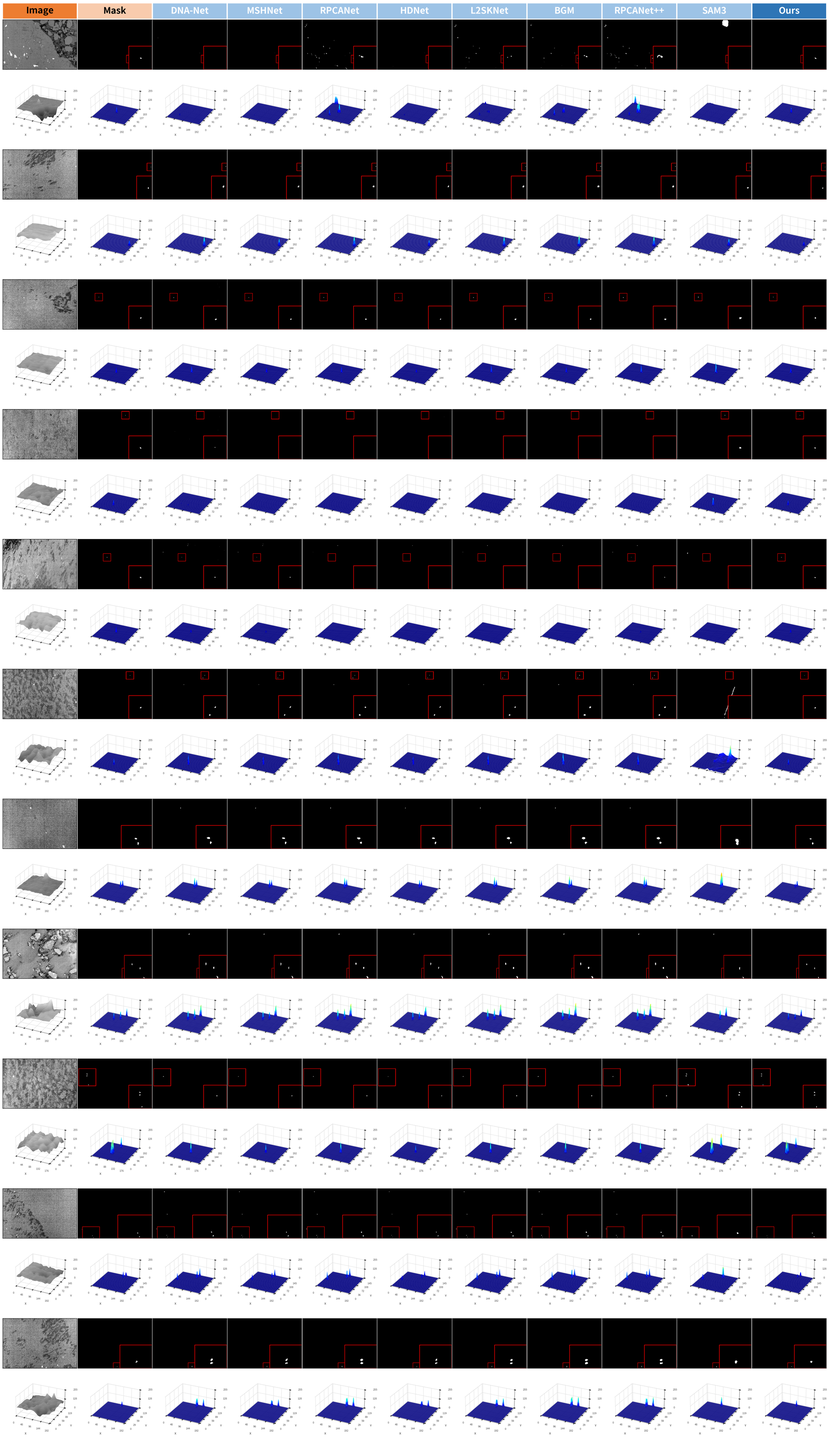
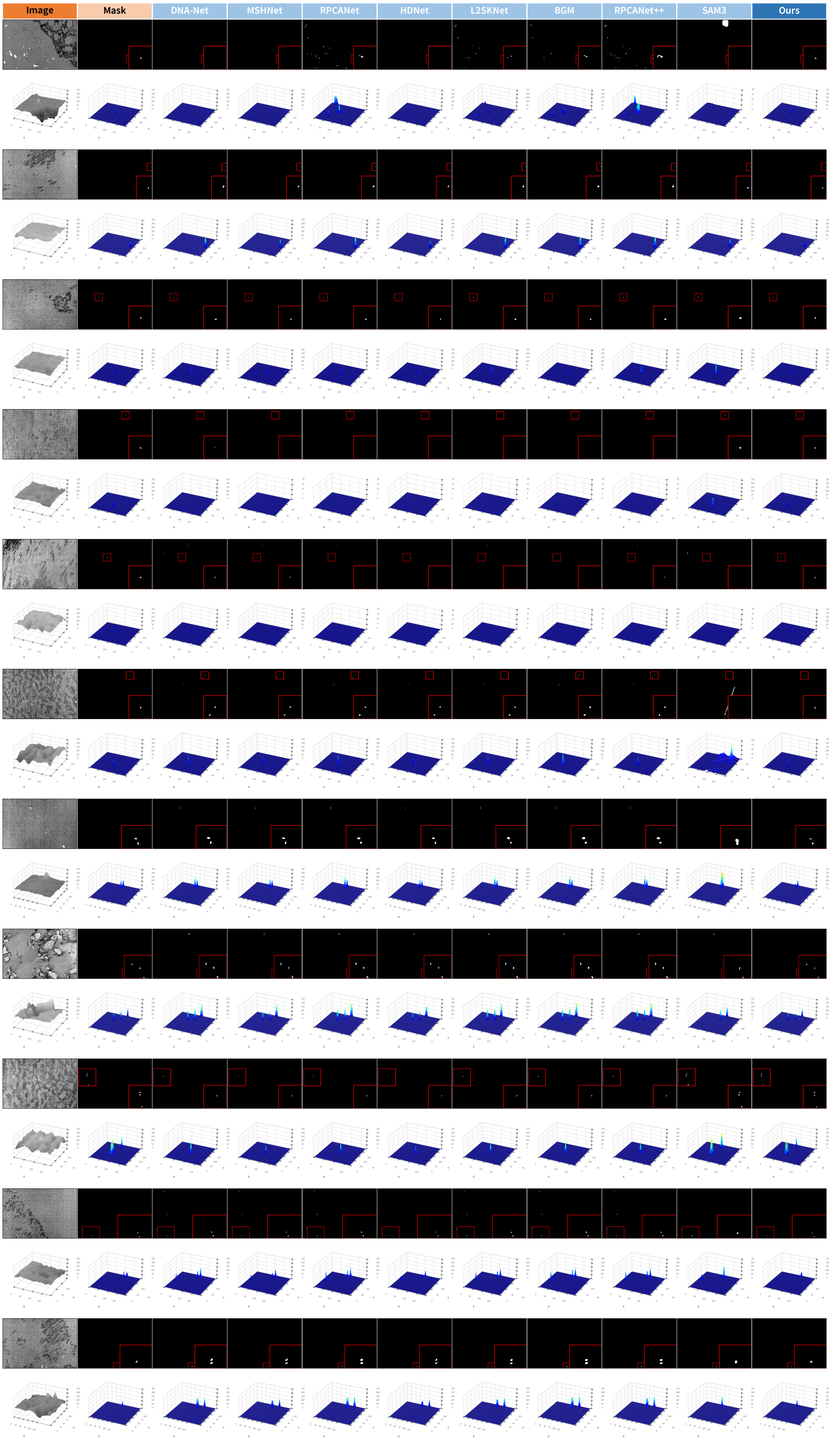
定性图 v3：3D 再放大、单图拆分、Visio 可编辑版
- 3D：刻度 2.1 -> 1.8 pt、zoom 0.78 -> 0.85（盒子占格宽约 75%）；tick 0.45 灰/0.15 pt、轴线 0.55 灰/0.22 pt
- build_paper_qualitative.py 新增 --split-dir：每个 2D 面板、每个 3D 盒子各存一张单图
  （panels_roi/<nn>_<id>/2d|3d/<col>.png；3D 按 1.6x1.344 in @600dpi 渲染，与拼图格子 1:1）
- 新增 Visio 可编辑版 seal_qualitative_11col.vsdx（11 页 x 34 形状，表头/图片/页脚均可单独编辑）
- 本地只留 v3，整个 Ours/qualitative/ 移出 git（单版约 100 MB，含 242 张单图与 vsdx）
- docs 记录 v1/v2/v3 差异、单图命名与 Visio 生成方式

diff --git a/tools/build_paper_qualitative.py b/tools/build_paper_qualitative.py
@@ -135,7 +135,27 @@ def roi_panel(sheet, roi, target=384):
     return cv2.cvtColor(canvas, cv2.COLOR_GRAY2BGR)
 
 
-def add_surface(ax, data, vmax=255.0, smooth=2.0, cmap='jet', tick_font=2.1):
+def safe_name(name):
+    return name.replace('+', 'p').replace('/', '_').replace(' ', '_')
+
+
+def render_surface_png(surf, path, vmax, cmap='jet', smooth=2.0,
+                       size_in=(1.6, 1.344), dpi=600):
+    """One 3D box as a standalone PNG, rendered at the size it will be placed in Visio.
+
+    1.6 x 1.344 in matches one cell of the composite figure (cell_w x 0.84*cell_w),
+    so the tick labels keep the same visual size when pasted back at 1:1.
+    """
+    path.parent.mkdir(parents=True, exist_ok=True)
+    f = plt.figure(figsize=size_in, dpi=dpi, facecolor='white')
+    ax = f.add_subplot(111, projection='3d')
+    add_surface(ax, surf, vmax=vmax, cmap=cmap, smooth=smooth)
+    f.subplots_adjust(left=0.0, right=1.0, bottom=0.0, top=1.0)
+    f.savefig(path, dpi=dpi, facecolor='white')
+    plt.close(f)
+
+
+def add_surface(ax, data, vmax=255.0, smooth=2.0, cmap='jet', tick_font=1.8):
     """PDDiff Fig. 9 style surface: white panes, light grid, thin grey axes, tick labels."""
     arr = data.astype(np.float32)
     if smooth > 0:
@@ -154,12 +174,12 @@ def add_surface(ax, data, vmax=255.0, smooth=2.0, cmap='jet', tick_font=2.1):
     ax.xaxis.set_major_locator(loc)
     ax.yaxis.set_major_locator(loc)
     ax.zaxis.set_major_locator(MaxNLocator(nbins=5, integer=True, steps=[1, 2, 2.5, 5, 10]))
-    ax.tick_params(axis='x', labelsize=tick_font, pad=-3.0, length=0.5, width=0.2,
-                   colors='0.25')
-    ax.tick_params(axis='y', labelsize=tick_font, pad=-3.0, length=0.5, width=0.2,
-                   colors='0.25')
-    ax.tick_params(axis='z', labelsize=tick_font, pad=-1.5, length=0.5, width=0.2,
-                   colors='0.25')
+    ax.tick_params(axis='x', labelsize=tick_font, pad=-3.0, length=0.4, width=0.15,
+                   colors='0.45')
+    ax.tick_params(axis='y', labelsize=tick_font, pad=-3.0, length=0.4, width=0.15,
+                   colors='0.45')
+    ax.tick_params(axis='z', labelsize=tick_font, pad=-1.5, length=0.4, width=0.15,
+                   colors='0.45')
     ax.set_xlabel('X', fontsize=tick_font + 0.3, labelpad=-9, color='0.15')
     ax.set_ylabel('Y', fontsize=tick_font + 0.3, labelpad=-9, color='0.15')
     ax.set_zlabel('Z', fontsize=tick_font + 0.3, labelpad=-4, color='0.15')
@@ -170,11 +190,11 @@ def add_surface(ax, data, vmax=255.0, smooth=2.0, cmap='jet', tick_font=2.1):
         axis.pane.set_linewidth(0.3)
         axis._axinfo['grid'].update(color=(0.86, 0.86, 0.86, 1), linewidth=0.22)
         # 去掉 matplotlib 默认的黑色粗轴线，改成很细的灰线（PDDiff 没有黑粗线）
-        axis.line.set_color((0.45, 0.45, 0.45, 1))
-        axis.line.set_linewidth(0.25)
+        axis.line.set_color((0.55, 0.55, 0.55, 1))
+        axis.line.set_linewidth(0.22)
 
     ax.grid(True)
-    ax.set_box_aspect((1, 1, 0.55), zoom=0.78)
+    ax.set_box_aspect((1, 1, 0.55), zoom=0.85)
     ax.margins(0)
 
 
@@ -193,6 +213,9 @@ def main():
     ap.add_argument('--image-stretch', default='percentile', choices=['none', 'percentile'],
                     help='display-only background stretch for the Image column')
     ap.add_argument('--crop3d', type=int, default=192)
+    ap.add_argument('--split-dir', default=None,
+                    help='also write every panel as its own PNG under '
+                         '<dir>/<nn>_<id>/2d/<col>.png and .../3d/<col>.png')
     ap.add_argument('--roi-min', type=int, default=MIN_BOX, help='minimum ROI side (px)')
     ap.add_argument('--roi-margin', type=int, default=MARGIN, help='padding around the GT bbox (px)')
     ap.add_argument('--roi-panels', action='store_true',
@@ -210,6 +233,9 @@ def main():
 
     out = Path(args.out)
     out.mkdir(parents=True, exist_ok=True)
+    split_root = Path(args.split_dir) if args.split_dir else None
+    if split_root is not None:
+        split_root.mkdir(parents=True, exist_ok=True)
 
     if args.font:
         plt.rcParams['font.family'] = 'sans-serif'
@@ -324,6 +350,16 @@ def main():
             cmap = 'gray' if columns[j][2] == 'image' else 'jet'
             smooth = 5.0 if columns[j][2] == 'image' else 2.0
             add_surface(ax, surf, vmax=vmax, cmap=cmap, smooth=smooth)
+            if split_root is not None:
+                render_surface_png(surf, split_root / f'{si + 1:02d}_{stem}' / '3d' /
+                                   f'{j:02d}_{safe_name(columns[j][0])}.png',
+                                   vmax=vmax, cmap=cmap, smooth=smooth)
+
+        if split_root is not None:
+            sdir = split_root / f'{si + 1:02d}_{stem}' / '2d'
+            sdir.mkdir(parents=True, exist_ok=True)
+            for j, panel in enumerate(panels):
+                cv2.imwrite(str(sdir / f'{j:02d}_{safe_name(columns[j][0])}.png'), panel)
 
     png = out / f'{args.tag}_qualitative.png'
     pdf = out / f'{args.tag}_qualitative.pdf'
@@ -340,6 +376,7 @@ def main():
         'surf_maps': {k: str(v) for k, v in surf_dirs.items()},
         'roi_margin_px': args.roi_margin, 'min_roi_px': args.roi_min, 'inset_zoom': ZOOM,
         'roi_panels': bool(args.roi_panels),
+        'split_dir': str(split_root) if split_root is not None else None,
         'header_colors': HEADER_COLORS,
     }
     (out / f'{args.tag}_meta.json').write_text(json.dumps(meta, ensure_ascii=False, indent=2), encoding='utf-8')

diff --git a/AGENTS.md b/AGENTS.md
@@ -62,7 +62,7 @@
 - DRPCA-Net 的 11.23 FPS 是实现开销而非测量噪声：`torch.profiler` 显示单次前向 CUDA 时间的 81.8 % 花在 `ChannelAttention` 的 `nn.AdaptiveMaxPool2d(1)`（每前向 29 次调用），且延迟对 batch 1/2/4 不敏感（85/56/65 ms）。按官方代码如实记录，不改实现。口径、对照表与差异分析见 [Seal 复杂度指标说明](docs/Seal复杂度指标_说明.md)。
 - 平凡基线（决定读表方式，不新增表行）：全背景预测（1,983 张全零）在同一 test GT 上为 S 0.49990、Fw 0、E 0.25、MAE 0.00020553，IoU/F1/Pd/Fa 均为 0。12 个基线与 Ours 的 S（0.49800–0.49915）全部低于该值，12 个基线的 MAE（0.000229–0.000375）全部高于该值，只有 Ours 的 MAE（0.00015090）低于它。因此 S/MAE 在 Seal 上不区分方法，比较以 Fw/IoU/F1/Pd/Fa 为主，S/MAE 须与平凡基线并列阅读；复算见 [汇总](docs/Seal全监督基线评估汇总.md#平凡基线全背景预测)。
 - 第三批（入表，行 29～32）：L2SKNet（TGRS25）、BGM（TGRS25）、DRPCA-Net（TGRS25）、DURD（TGRS26），均为 2025–2026 年、有官方代码的全监督单帧方法，12 个对比方法到此凑满。目录 `L2SKNet-main/`、`BGM-main/`、`DRPCA-Net-main/`、`DURD-main/`；训练设置：L2SKNet 150/Adam 5e-4、BGM 150/Adam 5e-4（两者模型输出已是概率，用概率空间 dataset 级 IoU）、DRPCA-Net 60/Adam 3e-5/dataset 级 SoftIoU + 0.01 MSE、DURD 100/Adam 1e-4/SoftIoU + 0.1 MSE。各处改动逐条写在对应实验记录与 [汇总](docs/Seal全监督基线评估汇总.md#训练不稳定与失败记录)。
-- 论文版式定性图（对齐 PDDiff Fig. 8/9）：[tools/build_paper_qualitative.py](tools/build_paper_qualitative.py)，每个样例两行（2D 二值面板 + 红框/放大插图；3D 响应面 `elev=26, azim=-64`、按面板 z 上限）。三条硬约束：① 3D 行必须喂**概率图**（`--surf-maps results/<M>/Seal/fullsup_test_maps`），二值图是 0/255 阶跃，画出来只有一根尖刺；② Seal 目标只有 3–5 px，`full` 版式（整幅 + 右下插图）在 0.87 in 列宽下几乎看不见，正式图用 `--roi-panels`（面板 = 6 倍放大 ROI，`--roi-min 64 --roi-margin 24`）；③ 11 列 × 11 样例按 9.6 in 出图，若按 7.2 in 排版表头掉到 5.6 pt，主图应拆成 `seal_pick6_roi` + `seal_pick5_roi` 两张。样例取 [docs/qualitative_rank_top200.json](docs/qualitative_rank_top200.json)（`score = F1(Ours) − mean_k F1(baseline_k)`，可用 [docs/qualitative_review_top200.html](docs/qualitative_review_top200.html) 逐图复核），当前采用排名 1,2,5,6,8,11,13,15,19,21,29 共 11 张，一键重建 [tools/make_paper_qualitative_pick.sh](tools/make_paper_qualitative_pick.sh)。Ours 预测在 `Ours/test_maps`（1,983 张概率图）、SAM3 在 `Ours/SAM3-test_maps`（同阈值 `>=128`）。版式规格、样例清单与读数见 [docs/Seal定性图_论文版式.md](docs/Seal定性图_论文版式.md)，预览 `docs/assets/seal_qualitative_pick6_roi.png`、`docs/assets/seal_qualitative_pick11_full.png`。全分辨率成品（600 dpi PNG + 矢量 PDF + meta，6 个 tag 共 18 个文件，约 80 MB/版）按版本归档：服务器保留全部历史（v1 `qualitative_paper/user_pick/`、v2 `qualitative_paper/v2_20261105/`），本地只留最新一版在 `Ours/qualitative/v2_20261105/`，**每一版单独一个 `v*` 子文件夹**。PNG/PDF 体积大，已在 `.gitignore` 里排除（不进 git），每版目录内的 `README.md` 仍跟踪。v2 相对 v1 的版式改动：列间距压到 `wspace=0.004`、2D 行高度按图像真实比例（ROI 版正方形）、3D 加浅灰网格 + 整数刻度 + X/Y/Z 轴名（`MaxNLocator(nbins=5, integer=True)`）、轴线压到 0.25 pt 灰线去掉黑色粗框、3D 盒子 `zoom=0.78` 让刻度落在本格内。
+- 论文版式定性图（对齐 PDDiff Fig. 8/9）：[tools/build_paper_qualitative.py](tools/build_paper_qualitative.py)，每个样例两行（2D 二值面板 + 红框/放大插图；3D 响应面 `elev=26, azim=-64`、按面板 z 上限）。三条硬约束：① 3D 行必须喂**概率图**（`--surf-maps results/<M>/Seal/fullsup_test_maps`），二值图是 0/255 阶跃，画出来只有一根尖刺；② Seal 目标只有 3–5 px，`full` 版式（整幅 + 右下插图）在 0.87 in 列宽下几乎看不见，正式图用 `--roi-panels`（面板 = 6 倍放大 ROI，`--roi-min 64 --roi-margin 24`）；③ 11 列 × 11 样例按 9.6 in 出图，若按 7.2 in 排版表头掉到 5.6 pt，主图应拆成 `seal_pick6_roi` + `seal_pick5_roi` 两张。样例取 [docs/qualitative_rank_top200.json](docs/qualitative_rank_top200.json)（`score = F1(Ours) − mean_k F1(baseline_k)`，可用 [docs/qualitative_review_top200.html](docs/qualitative_review_top200.html) 逐图复核），当前采用排名 1,2,5,6,8,11,13,15,19,21,29 共 11 张，一键重建 [tools/make_paper_qualitative_pick.sh](tools/make_paper_qualitative_pick.sh)。Ours 预测在 `Ours/test_maps`（1,983 张概率图）、SAM3 在 `Ours/SAM3-test_maps`（同阈值 `>=128`）。版式规格、样例清单与读数见 [docs/Seal定性图_论文版式.md](docs/Seal定性图_论文版式.md)，预览 `docs/assets/seal_qualitative_pick6_roi.png`、`docs/assets/seal_qualitative_pick11_full.png`。全分辨率成品（600 dpi PNG + 矢量 PDF + meta，约 100 MB/版）按版本归档：服务器保留全部历史（v1 `qualitative_paper/user_pick/`、v2 `qualitative_paper/v2_20261105/`、v3 `qualitative_paper/v3_20261105/`），本地只留最新一版在 `Ours/qualitative/v3_20261105/`；**整个 `Ours/qualitative/` 不进 git**（单版 100 MB 量级，`.gitignore` 整目录排除，只有 `docs/assets/` 里的 1800 px 预览入库）。版式演进：v2 压紧列间距、3D 加网格 + 整数刻度 + 轴名、去掉黑色粗轴线；v3 再把 3D 刻度降到 1.8 pt、盒子 `zoom=0.85`，并用 `--split-dir` 把每个 2D 面板 / 3D 盒子拆成单图（`panels_roi/<nn>_<id>/2d|3d/<col>.png`，3D 按 1.6×1.344 in @600 dpi 渲染，与拼图格子 1:1），另外用 Visio COM（`tmp/fullsup3/make_visio.ps1`，仅 Windows + 已装 Visio）生成 `seal_qualitative_11col.vsdx`：11 页、每样例一页、每页 34 个独立形状（表头矩形 + 22 张图片 + 页脚说明），可手动调整格式。
 - 定性图（论文拼图用）：12 个方法与 Ours 的二值预测图在 `results/<Method>/Seal/test_binary/`（1,983 张，`pixel >= 128` → 255），由 [tools/make_binary_maps.py](tools/make_binary_maps.py) 与 [tools/make_qualitative.sh](tools/make_qualitative.sh) 生成；样例拼图在服务器 `qualitative/<stem>/panel.png`（RGB/热红外/GT/预测叠加，13 行），样例清单 `docs/Seal定性对比样例.json`，说明见 [docs/Seal定性对比图.md](docs/Seal定性对比图.md)。
 - IoU 的边界敏感性：Seal 目标平均 14.3 像素，把 GT 膨胀/腐蚀 1 像素当预测只能得到 IoU 0.3910 / 0.0826；表中 IoU 0.19–0.31 对应约 1–2 像素边界误差，不能读作分割质量百分比，须与 Fw/F1/Pd/Fa 合看，详见 [定义对照](docs/小目标评价指标_定义与代码对照.md#iou-的边界敏感性seal-gt-实测)。
 - 实验记录：[ACM](docs/ACM_Seal实验记录.md)、[DNA-Net](docs/DNANet_Seal实验记录.md)、[MSHNet](docs/MSHNet_Seal实验记录.md)、[UIU-Net](docs/UIU-Net_Seal实验记录.md)、[SCTransNet](docs/SCTransNet_Seal实验记录.md)、[RPCANet](docs/RPCANet_Seal实验记录.md)、[HDNet](docs/HDNet_Seal实验记录.md)、[ILNet](docs/ILNet_Seal实验记录.md)、[RPCANet++](docs/RPCANet++_Seal实验记录.md)、[L2SKNet](docs/L2SKNet_Seal实验记录.md)、[BGM](docs/BGM_Seal实验记录.md)、[DRPCA-Net](docs/DRPCA-Net_Seal实验记录.md)、[DURD](docs/DURD_Seal实验记录.md)、[DHiF](docs/DHiF_Seal实验记录.md)，汇总见 [Seal全监督基线评估汇总](docs/Seal全监督基线评估汇总.md)，定性图见 [Seal定性对比图](docs/Seal定性对比图.md)。

diff --git a/README.md b/README.md
@@ -65,7 +65,7 @@
 - DRPCA-Net 的 11.23 FPS 是实现开销而非测量噪声：`torch.profiler` 显示单次前向 CUDA 时间的 81.8 % 花在 `ChannelAttention` 的 `nn.AdaptiveMaxPool2d(1)`（每前向 29 次调用），且延迟对 batch 1/2/4 不敏感（85/56/65 ms）。按官方代码如实记录，不改实现。口径、对照表与差异分析见 [Seal 复杂度指标说明](docs/Seal复杂度指标_说明.md)。
 - 平凡基线（决定读表方式，不新增表行）：全背景预测（1,983 张全零）在同一 test GT 上为 S 0.49990、Fw 0、E 0.25、MAE 0.00020553，IoU/F1/Pd/Fa 均为 0。12 个基线与 Ours 的 S（0.49800–0.49915）全部低于该值，12 个基线的 MAE（0.000229–0.000375）全部高于该值，只有 Ours 的 MAE（0.00015090）低于它。因此 S/MAE 在 Seal 上不区分方法，比较以 Fw/IoU/F1/Pd/Fa 为主，S/MAE 须与平凡基线并列阅读；复算见 [汇总](docs/Seal全监督基线评估汇总.md#平凡基线全背景预测)。
 - 第三批（入表，行 29～32）：L2SKNet（TGRS25）、BGM（TGRS25）、DRPCA-Net（TGRS25）、DURD（TGRS26），均为 2025–2026 年、有官方代码的全监督单帧方法，12 个对比方法到此凑满。目录 `L2SKNet-main/`、`BGM-main/`、`DRPCA-Net-main/`、`DURD-main/`；训练设置：L2SKNet 150/Adam 5e-4、BGM 150/Adam 5e-4（两者模型输出已是概率，用概率空间 dataset 级 IoU）、DRPCA-Net 60/Adam 3e-5/dataset 级 SoftIoU + 0.01 MSE、DURD 100/Adam 1e-4/SoftIoU + 0.1 MSE。各处改动逐条写在对应实验记录与 [汇总](docs/Seal全监督基线评估汇总.md#训练不稳定与失败记录)。
-- 论文版式定性图（对齐 PDDiff Fig. 8/9）：[tools/build_paper_qualitative.py](tools/build_paper_qualitative.py)，每个样例两行（2D 二值面板 + 红框/放大插图；3D 响应面 `elev=26, azim=-64`、按面板 z 上限）。三条硬约束：① 3D 行必须喂**概率图**（`--surf-maps results/<M>/Seal/fullsup_test_maps`），二值图是 0/255 阶跃，画出来只有一根尖刺；② Seal 目标只有 3–5 px，`full` 版式（整幅 + 右下插图）在 0.87 in 列宽下几乎看不见，正式图用 `--roi-panels`（面板 = 6 倍放大 ROI，`--roi-min 64 --roi-margin 24`）；③ 11 列 × 11 样例按 9.6 in 出图，若按 7.2 in 排版表头掉到 5.6 pt，主图应拆成 `seal_pick6_roi` + `seal_pick5_roi` 两张。样例取 [docs/qualitative_rank_top200.json](docs/qualitative_rank_top200.json)（`score = F1(Ours) − mean_k F1(baseline_k)`，可用 [docs/qualitative_review_top200.html](docs/qualitative_review_top200.html) 逐图复核），当前采用排名 1,2,5,6,8,11,13,15,19,21,29 共 11 张，一键重建 [tools/make_paper_qualitative_pick.sh](tools/make_paper_qualitative_pick.sh)。Ours 预测在 `Ours/test_maps`（1,983 张概率图）、SAM3 在 `Ours/SAM3-test_maps`（同阈值 `>=128`）。版式规格、样例清单与读数见 [docs/Seal定性图_论文版式.md](docs/Seal定性图_论文版式.md)，预览 `docs/assets/seal_qualitative_pick6_roi.png`、`docs/assets/seal_qualitative_pick11_full.png`。全分辨率成品（600 dpi PNG + 矢量 PDF + meta，6 个 tag 共 18 个文件，约 80 MB/版）按版本归档：服务器保留全部历史（v1 `qualitative_paper/user_pick/`、v2 `qualitative_paper/v2_20261105/`），本地只留最新一版在 `Ours/qualitative/v2_20261105/`，**每一版单独一个 `v*` 子文件夹**。PNG/PDF 体积大，已在 `.gitignore` 里排除（不进 git），每版目录内的 `README.md` 仍跟踪。v2 相对 v1 的版式改动：列间距压到 `wspace=0.004`、2D 行高度按图像真实比例（ROI 版正方形）、3D 加浅灰网格 + 整数刻度 + X/Y/Z 轴名（`MaxNLocator(nbins=5, integer=True)`）、轴线压到 0.25 pt 灰线去掉黑色粗框、3D 盒子 `zoom=0.78` 让刻度落在本格内。
+- 论文版式定性图（对齐 PDDiff Fig. 8/9）：[tools/build_paper_qualitative.py](tools/build_paper_qualitative.py)，每个样例两行（2D 二值面板 + 红框/放大插图；3D 响应面 `elev=26, azim=-64`、按面板 z 上限）。三条硬约束：① 3D 行必须喂**概率图**（`--surf-maps results/<M>/Seal/fullsup_test_maps`），二值图是 0/255 阶跃，画出来只有一根尖刺；② Seal 目标只有 3–5 px，`full` 版式（整幅 + 右下插图）在 0.87 in 列宽下几乎看不见，正式图用 `--roi-panels`（面板 = 6 倍放大 ROI，`--roi-min 64 --roi-margin 24`）；③ 11 列 × 11 样例按 9.6 in 出图，若按 7.2 in 排版表头掉到 5.6 pt，主图应拆成 `seal_pick6_roi` + `seal_pick5_roi` 两张。样例取 [docs/qualitative_rank_top200.json](docs/qualitative_rank_top200.json)（`score = F1(Ours) − mean_k F1(baseline_k)`，可用 [docs/qualitative_review_top200.html](docs/qualitative_review_top200.html) 逐图复核），当前采用排名 1,2,5,6,8,11,13,15,19,21,29 共 11 张，一键重建 [tools/make_paper_qualitative_pick.sh](tools/make_paper_qualitative_pick.sh)。Ours 预测在 `Ours/test_maps`（1,983 张概率图）、SAM3 在 `Ours/SAM3-test_maps`（同阈值 `>=128`）。版式规格、样例清单与读数见 [docs/Seal定性图_论文版式.md](docs/Seal定性图_论文版式.md)，预览 `docs/assets/seal_qualitative_pick6_roi.png`、`docs/assets/seal_qualitative_pick11_full.png`。全分辨率成品（600 dpi PNG + 矢量 PDF + meta，约 100 MB/版）按版本归档：服务器保留全部历史（v1 `qualitative_paper/user_pick/`、v2 `qualitative_paper/v2_20261105/`、v3 `qualitative_paper/v3_20261105/`），本地只留最新一版在 `Ours/qualitative/v3_20261105/`；**整个 `Ours/qualitative/` 不进 git**（单版 100 MB 量级，`.gitignore` 整目录排除，只有 `docs/assets/` 里的 1800 px 预览入库）。版式演进：v2 压紧列间距、3D 加网格 + 整数刻度 + 轴名、去掉黑色粗轴线；v3 再把 3D 刻度降到 1.8 pt、盒子 `zoom=0.85`，并用 `--split-dir` 把每个 2D 面板 / 3D 盒子拆成单图（`panels_roi/<nn>_<id>/2d|3d/<col>.png`，3D 按 1.6×1.344 in @600 dpi 渲染，与拼图格子 1:1），另外用 Visio COM（`tmp/fullsup3/make_visio.ps1`，仅 Windows + 已装 Visio）生成 `seal_qualitative_11col.vsdx`：11 页、每样例一页、每页 34 个独立形状（表头矩形 + 22 张图片 + 页脚说明），可手动调整格式。
 - 定性图（论文拼图用）：12 个方法与 Ours 的二值预测图在 `results/<Method>/Seal/test_binary/`（1,983 张，`pixel >= 128` → 255），由 [tools/make_binary_maps.py](tools/make_binary_maps.py) 与 [tools/make_qualitative.sh](tools/make_qualitative.sh) 生成；样例拼图在服务器 `qualitative/<stem>/panel.png`（RGB/热红外/GT/预测叠加，13 行），样例清单 `docs/Seal定性对比样例.json`，说明见 [docs/Seal定性对比图.md](docs/Seal定性对比图.md)。
 - IoU 的边界敏感性：Seal 目标平均 14.3 像素，把 GT 膨胀/腐蚀 1 像素当预测只能得到 IoU 0.3910 / 0.0826；表中 IoU 0.19–0.31 对应约 1–2 像素边界误差，不能读作分割质量百分比，须与 Fw/F1/Pd/Fa 合看，详见 [定义对照](docs/小目标评价指标_定义与代码对照.md#iou-的边界敏感性seal-gt-实测)。
 - 实验记录：[ACM](docs/ACM_Seal实验记录.md)、[DNA-Net](docs/DNANet_Seal实验记录.md)、[MSHNet](docs/MSHNet_Seal实验记录.md)、[UIU-Net](docs/UIU-Net_Seal实验记录.md)、[SCTransNet](docs/SCTransNet_Seal实验记录.md)、[RPCANet](docs/RPCANet_Seal实验记录.md)、[HDNet](docs/HDNet_Seal实验记录.md)、[ILNet](docs/ILNet_Seal实验记录.md)、[RPCANet++](docs/RPCANet++_Seal实验记录.md)、[L2SKNet](docs/L2SKNet_Seal实验记录.md)、[BGM](docs/BGM_Seal实验记录.md)、[DRPCA-Net](docs/DRPCA-Net_Seal实验记录.md)、[DURD](docs/DURD_Seal实验记录.md)、[DHiF](docs/DHiF_Seal实验记录.md)，汇总见 [Seal全监督基线评估汇总](docs/Seal全监督基线评估汇总.md)，定性图见 [Seal定性对比图](docs/Seal定性对比图.md)。

diff --git a/docs/Seal定性图_论文版式.md b/docs/Seal定性图_论文版式.md
@@ -112,18 +112,19 @@ python tools/build_paper_qualitative.py \
 
 （`2688/2120/2894` 是多目标或细长目标，视野被 `--roi-min 64` 自动放大到 98–138 px。）
 
-构建：`bash tools/make_paper_qualitative_pick.sh all qualitative_paper/v2_20261105`（第二个参数是输出目录，默认 `qualitative_paper/latest`；**每次改版都给新目录**，别覆盖旧版）。`full`/`roi` 二选一也行。
+构建：`bash tools/make_paper_qualitative_pick.sh all qualitative_paper/v3_20261105`（第二个参数是输出目录，默认 `qualitative_paper/latest`；**每次改版都给新目录**，别覆盖旧版）。`full`/`roi` 二选一也行。
 
 ### 版本
 
 | 版本 | 服务器目录 | 本地目录 | 说明 |
 |---|---|---|---|
 | v1 | `qualitative_paper/user_pick/` | 已删除 | 首版：3D 无刻度、有黑色粗轴线、列间距 0.02、Image 列 `gray+sigma3` |
-| v2（当前） | `qualitative_paper/v2_20261105/` | `Ours/qualitative/v2_20261105/` | 按审阅意见改：列间距压到 0.004、2D 行按真实比例、3D 加网格+整数刻度+轴名、去掉黑粗轴线、3D 盒子 `zoom=0.78` |
+| v2 | `qualitative_paper/v2_20261105/` | 已删除 | 列间距压到 0.004、2D 行按真实比例、3D 加网格+整数刻度+轴名、去掉黑粗轴线、3D 盒子 `zoom=0.78` |
+| v3（当前） | `qualitative_paper/v3_20261105/` | `Ours/qualitative/v3_20261105/` | 3D 刻度 1.8 pt / `zoom=0.85`（盒子再放大一档）、tick/轴线再淡一档；新增单图拆分 `panels_roi/`（242 张）与 Visio 可编辑版 |
 
-服务器保留全部历史版本；本地只留最新一版，且 PNG/PDF 不进 git（`Ours/qualitative/*/*.png|pdf` 已在 `.gitignore`，单版约 80 MB），每版目录里的 `README.md` 仍然跟踪。
+服务器保留全部历史版本；本地只留最新一版，**整个 `Ours/qualitative/` 不进 git**（单版 100 MB 量级，`.gitignore` 已整目录排除）。
 
-v2 产物（600 dpi PNG + 矢量 PDF + meta）：
+v3 产物（600 dpi PNG + 矢量 PDF + meta）：
 
 | 文件 | 内容 | 尺寸 |
 |---|---|---|
@@ -131,8 +132,14 @@ v2 产物（600 dpi PNG + 矢量 PDF + meta）：
 | `seal_pick6_qualitative.*` / `seal_pick5_qualitative.*` | 同样例拆成 6 + 5 两张 | 5760×5569 / 5760×4666 px |
 | `seal_pick11_roi_qualitative.*` | 11 样例，`roi` 版式（面板 = 6 倍放大 ROI） | 5760×11408 px / 9.6×19.0 in |
 | `seal_pick6_roi_*` / `seal_pick5_roi_*` | 同上拆两张 | 5760×6290 / 5760×5267 px |
+| `panels_roi/<nn>_<id>/2d|3d/<col>.png` | 单图拆分：每个 2D 面板、每个 3D 盒子各一张 | 2D 384×384；3D 960×806（1.6×1.344 in @600 dpi） |
+| `seal_qualitative_11col.vsdx` | Visio 可编辑版：11 页（每样例一页），34 个独立形状/页 | 页面 18.3×4.3 in |
 
-仓库内预览（1800 px 宽，仅用于查看版式，已同步为 v2）：[`seal_qualitative_pick6_roi.png`](assets/seal_qualitative_pick6_roi.png)、[`seal_qualitative_pick5_roi.png`](assets/seal_qualitative_pick5_roi.png)、[`seal_qualitative_pick11_full.png`](assets/seal_qualitative_pick11_full.png)。
+单图拆分用 `--split-dir <out>/panels_roi`；3D 单图按拼图格子的实际尺寸（1.6 × 1.344 in）渲染，贴回 Visio/PPT 时字号与拼图一致。
+
+Visio 版由 `tmp/fullsup3/make_visio.ps1` 用 Visio COM 生成（仅 Windows + 已装 Visio 可用）：表头是带填充/文字/雅黑的矩形，图片是嵌入的图片形状，页脚一行说明——都能单独选中改格式。
+
+仓库内预览（1800 px 宽，仅用于查看版式，已同步为 v3）：[`seal_qualitative_pick6_roi.png`](assets/seal_qualitative_pick6_roi.png)、[`seal_qualitative_pick5_roi.png`](assets/seal_qualitative_pick5_roi.png)、[`seal_qualitative_pick11_full.png`](assets/seal_qualitative_pick11_full.png)。
 
 从图上直接能读到的事实（对照表 21～32 行）：
 
